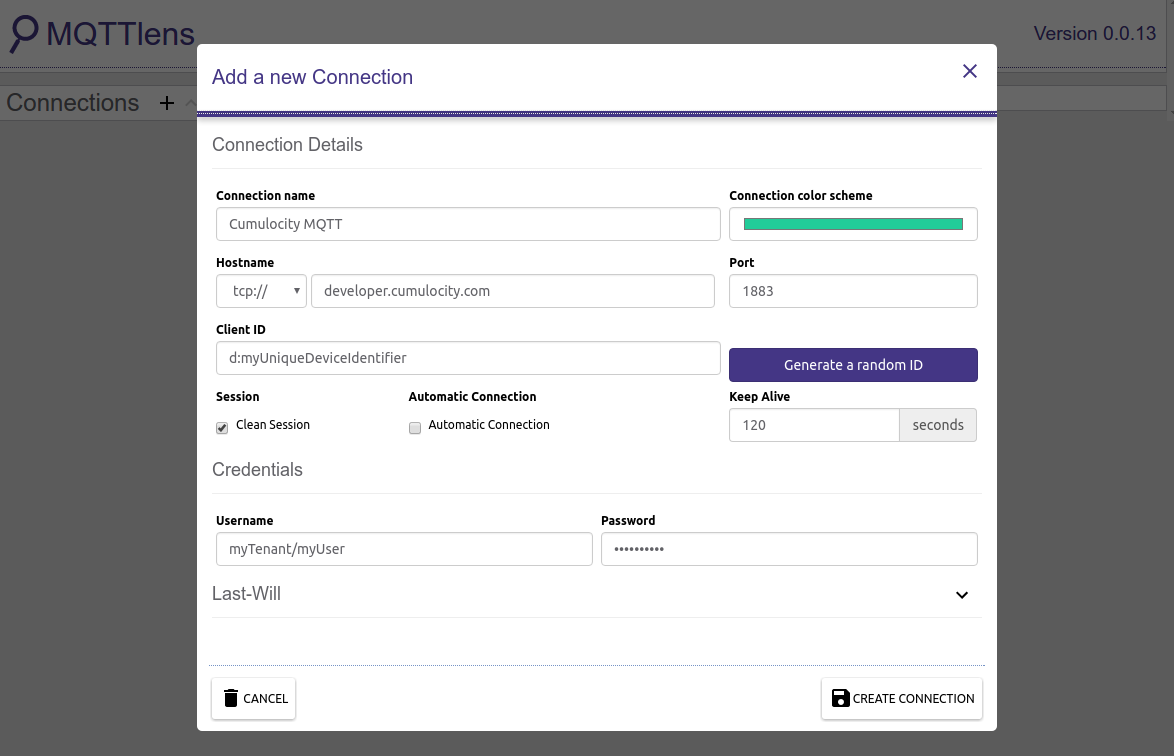
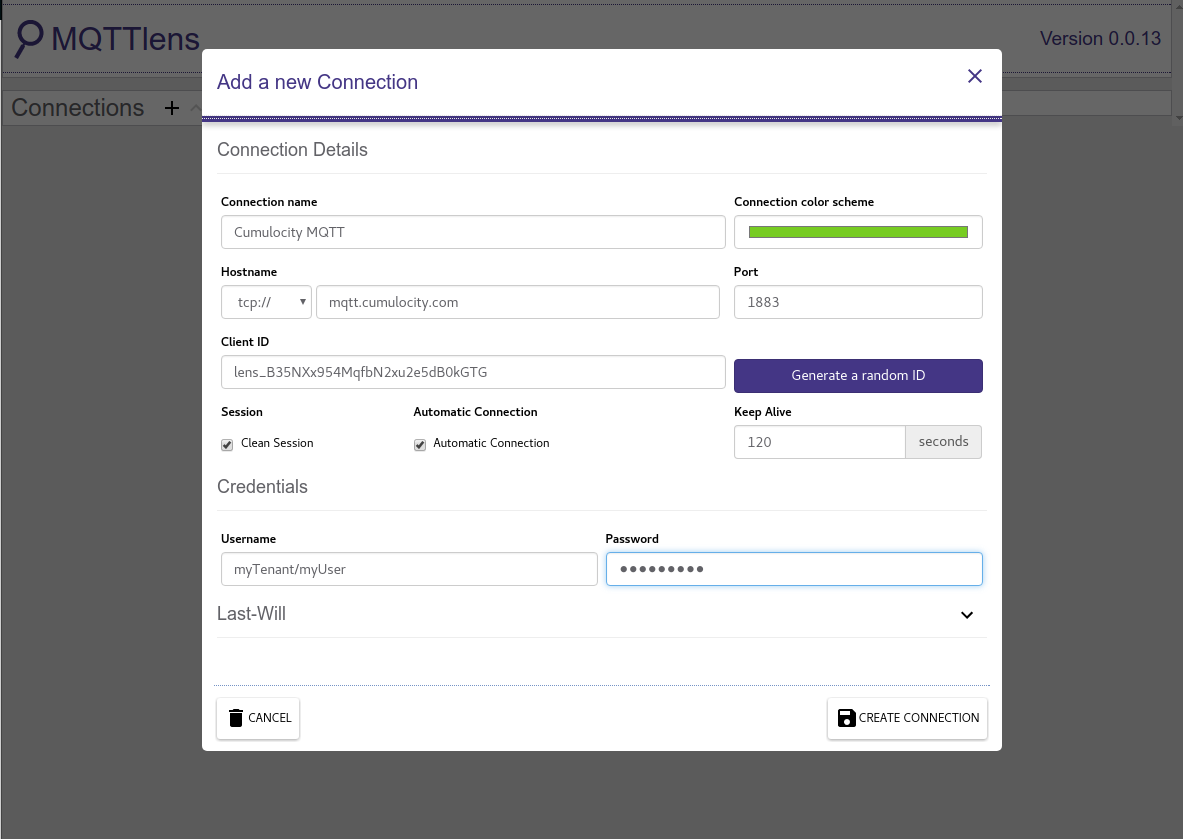
fix(mqtt) - change mqtt connection urls to mqtt.cumulocity.com

diff --git a/src/documents/guides/mqtt/implementation.html.md b/src/documents/guides/mqtt/implementation.html.md
@@ -9,7 +9,7 @@ This section will list the implementation details for the MQTT protocol. The Cum
 
 ## Connecting via MQTT
 
-Cumulocity supports MQTT both via TCP and WebSockets. As the URL you can use mqtt.cumulocity.com.
+Cumulocity supports MQTT both via TCP and WebSockets. As the URL you use mqtt.cumulocity.com.
 
 Available ports:
 
